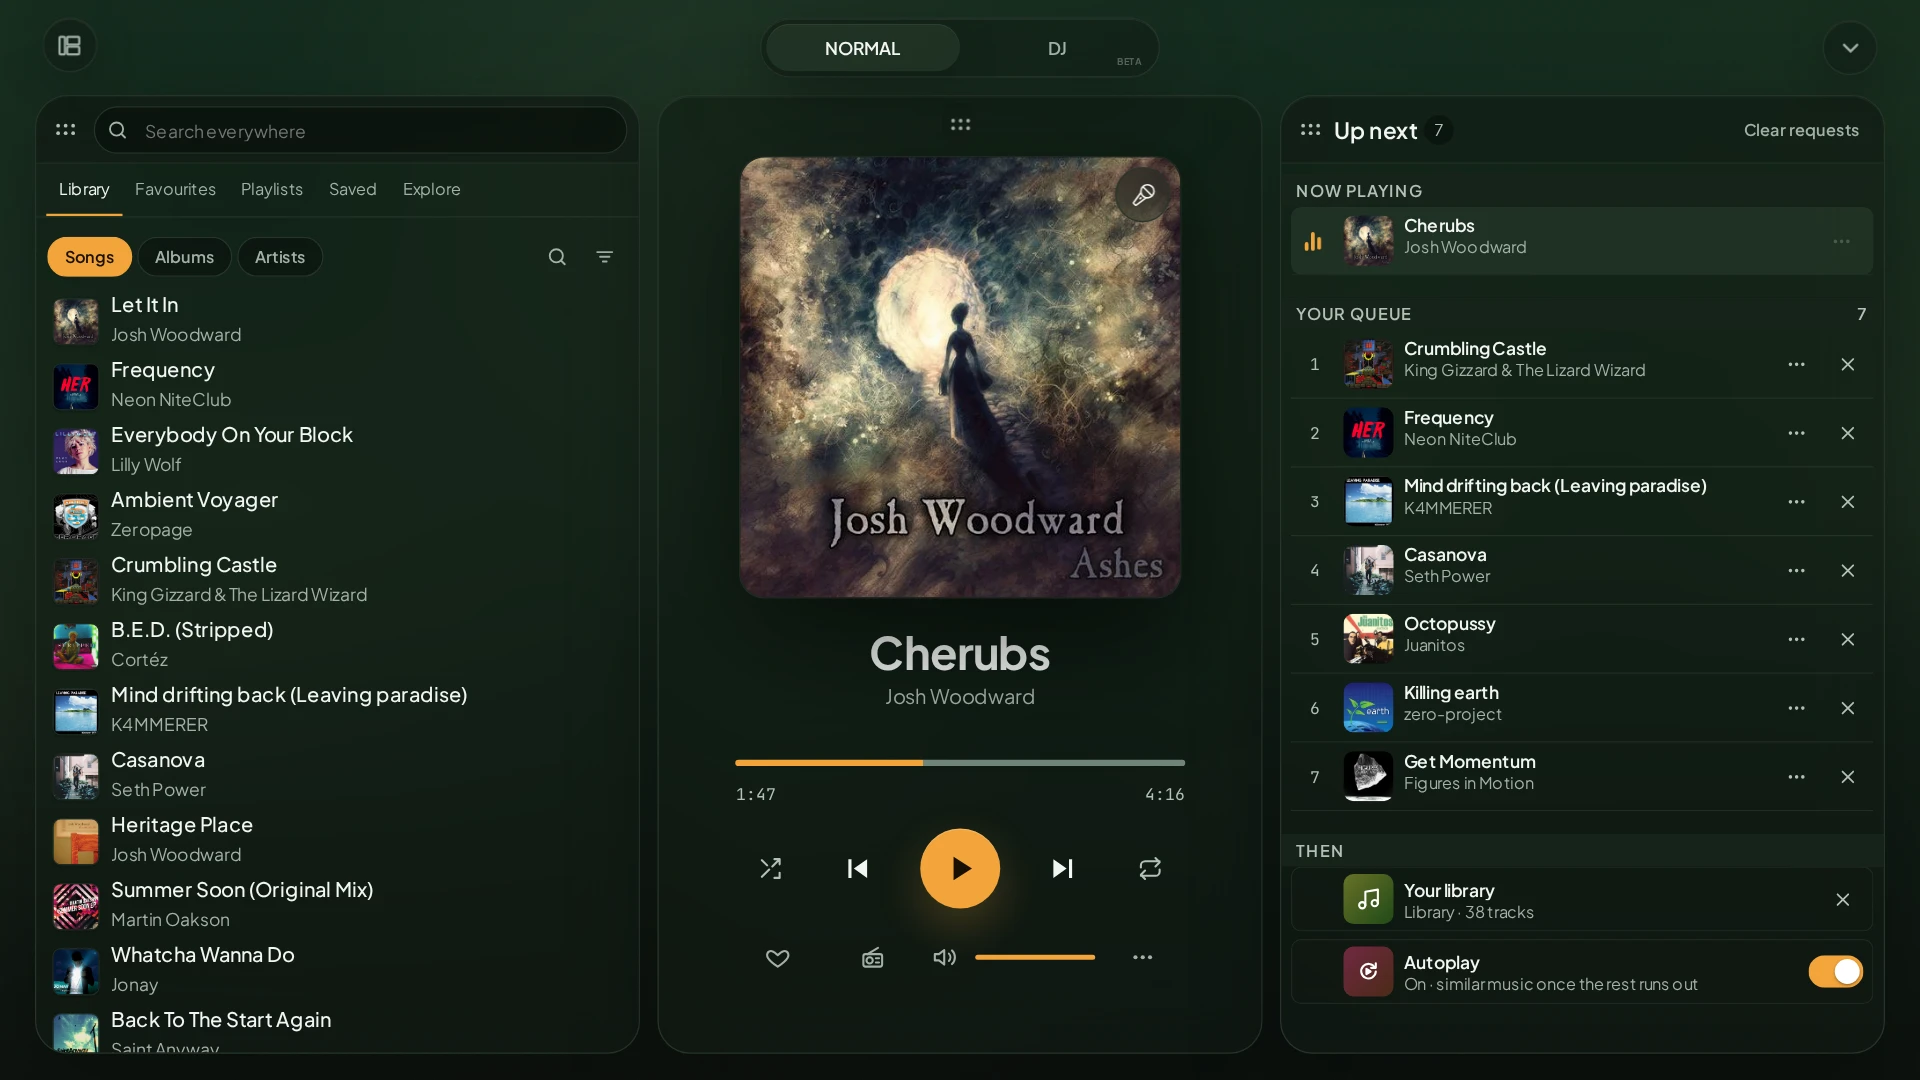
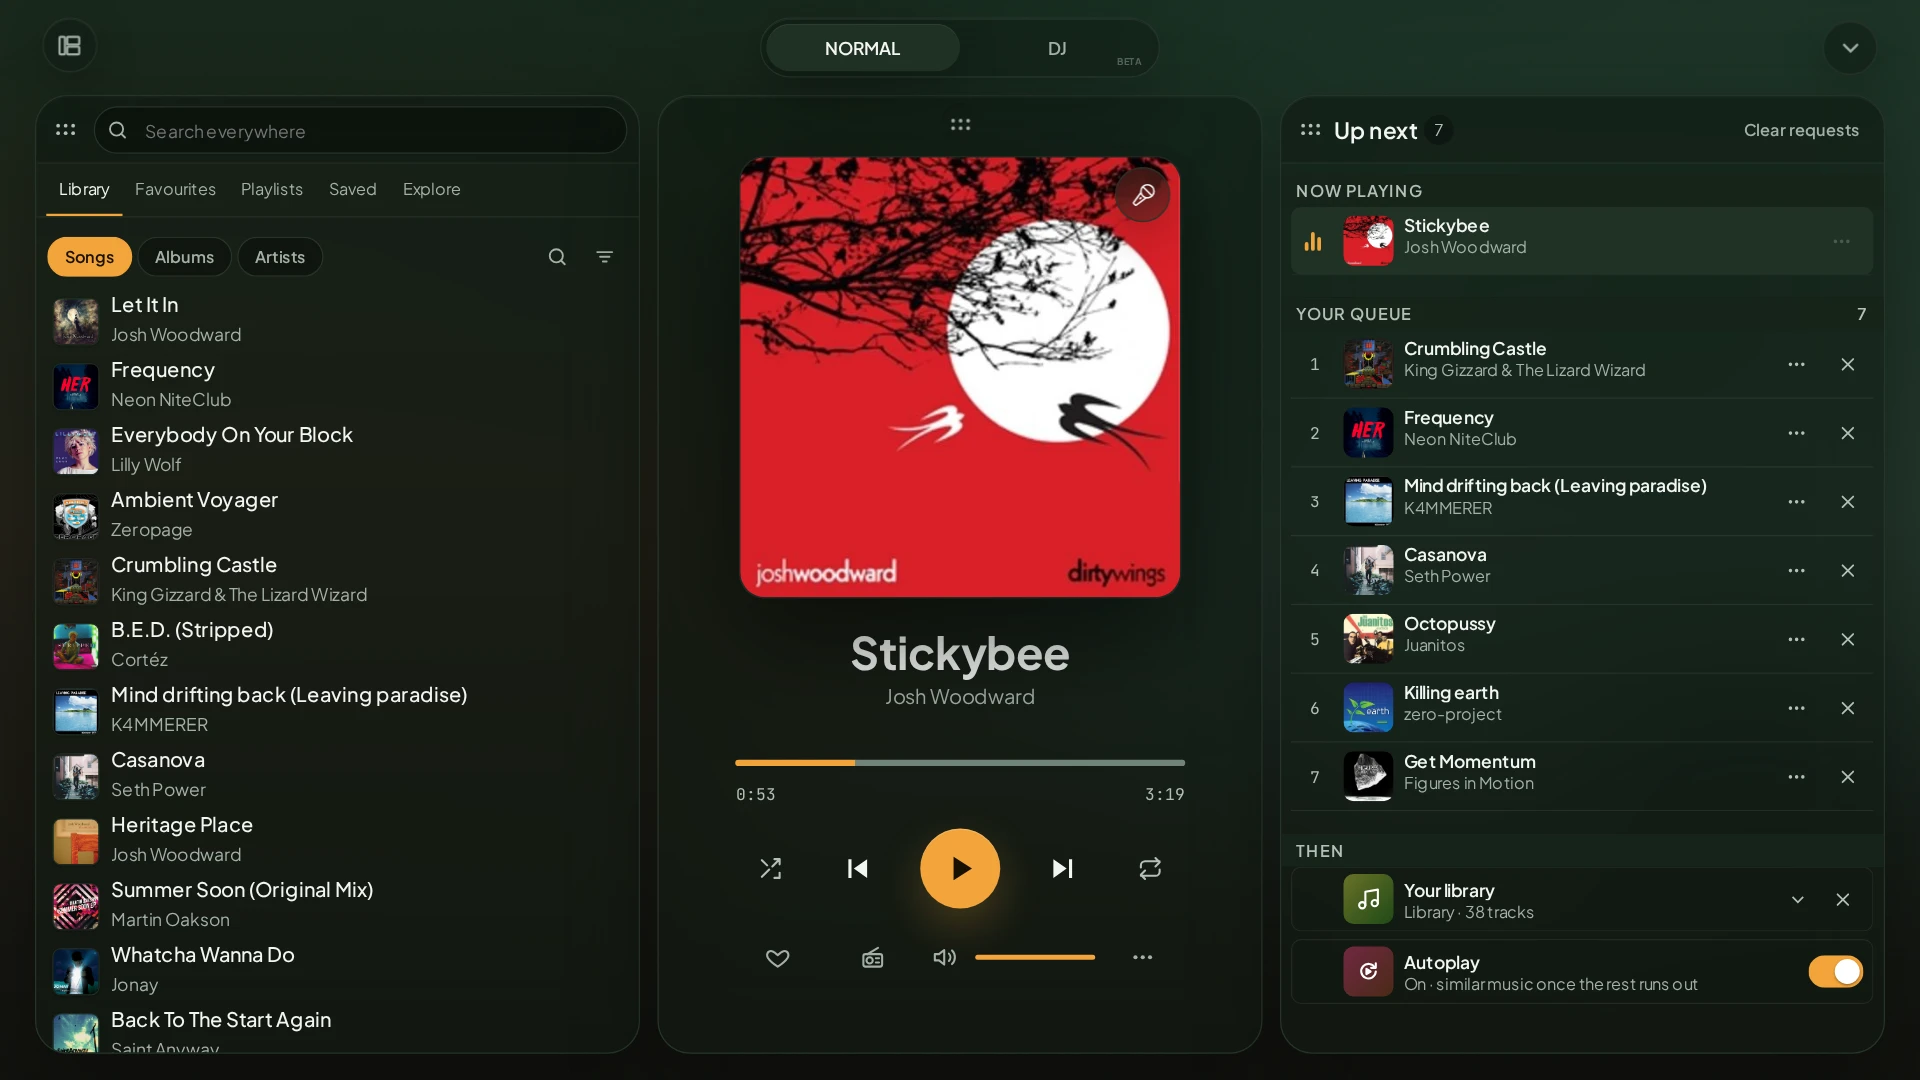
docs(showcase): Stickybee in the foreground of every screenshot (#317)
Cherubs' greenish cover tinted the whole shell in its colour; Dirty Wings'
red reads better. The clock moves to 0:53 so the lyrics on the phone show a
verse without the song's swear word. Screenshots and the social card
retaken with scripts/refresh_showcase.sh.

Changed region(s): [[0.375, 0.1222, 0.625, 0.6417], [0.6875, 0.1833, 0.7812, 0.2444], [0.4375, 0.7028, 0.4688, 0.7333]]

diff --git a/ui_web/showcase/engine.ts b/ui_web/showcase/engine.ts
@@ -39,8 +39,8 @@ const QUIET = new Set([
 ]);
 
 /** The song every screenshot is in the middle of. */
-export const NOW_PLAYING = track('Cherubs');
-export const NOW_PLAYING_AT = 107;
+export const NOW_PLAYING = track('Stickybee');
+export const NOW_PLAYING_AT = 53;
 /** What the listener asked for next, ahead of the library carrying on. */
 export const REQUESTS = ['Polygondwanaland', 'Her', 'Leaving Paradise', 'Magnolia Soul', 'Exotica', 'Earth (2009)', 'Confusion Will Pass']
   .map((album) => library.find((row) => row.album === album)!);
